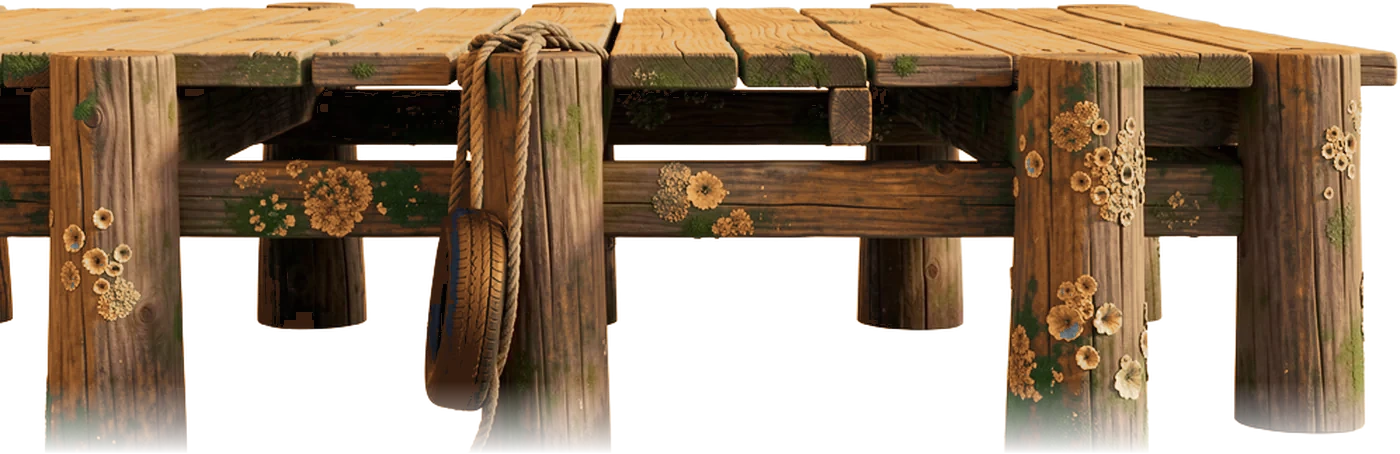
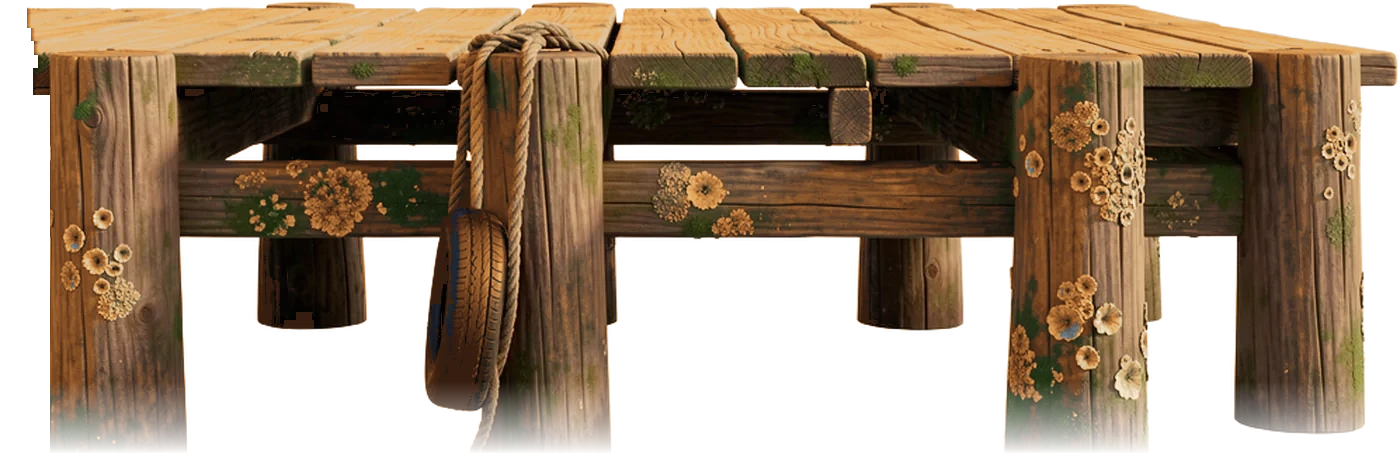
Pier without cuts: the deck ends at its first post (beams behind it, staggered plank ends), a mussel band hides each joint where a deck post goes on as a pile; null-safe creature look

Changed region(s): [[0.0, 0.0, 0.0614, 0.7093], [0.0307, 0.8634, 0.0614, 0.9868]]

diff --git a/game/level/LevelGenerator.js b/game/level/LevelGenerator.js
@@ -162,9 +162,10 @@ export const PROPS = {
     // Pier (generated art): stands at the surface, not on a floor spot (pierAt / drawPier).
     // `piles` = pile positions across the deck (under its own posts), `pileWidth` = post width (share of the deck),
     // `pileWood` = share of the pile art that is wood (band, seamless wood strip and foot are cut from one
-    // generated pile, soft-edged), `above` = share of the deck above the waterline.
+    // generated pile, soft-edged), `above` = share of the deck above the waterline, `joint` = share of the deck's
+    // height where its own posts end in the piles (a mussel band sits over each joint).
     pier: { keys: ['pier_deck', 'pier_pile_mid', 'pier_band', 'pier_foot'], width: [1300, 1600], surface: true, every: 4, chance: 0.5, max: 1,
-        piles: [0.083, 0.383, 0.769, 0.928], pileWidth: 0.1, pileWood: 0.7, above: 0.2, depth: -3, tint: 0xc4d0d4 },
+        piles: [0.083, 0.383, 0.769, 0.928], pileWidth: 0.1, pileWood: 0.7, above: 0.2, joint: 0.93, depth: -3, tint: 0xc4d0d4 },
     rowboat: { keys: ['rowboat_1'], width: SIZES.rowboat, sink: 0.3, reach: 0.2, flat: 0.35, depth: -3, back: true, max: 1, every: 2 },
     // Generated art (FLUX.2 klein, Replicate): plants between the kelp stalks.
     seagrass: { keys: ['seagrass_1'], width: [220, 340], sink: 0.12, reach: 0.2, flat: 0.6, depth: -1, max: 2, sway: 0.6 },
@@ -1395,10 +1396,11 @@ export default class LevelGenerator {
                 const c0 = Math.max(0, (m0 - y) / k), c1 = Math.min(fh, (m1 - y) / k);
                 if (c0 > 0 || c1 < fh) img.setCrop(0, c0, fw, c1 - c0);
             }
-            // Barnacle and mussel band in the tidal zone: its own height, size and side per pile.
+            // Barnacle and mussel band over the joint where the deck's own post ends and the pile goes on
+            // (user: no visible cut in the posts): its own height, size and side per pile.
             const r = Math.abs(Math.sin(q.x * 12.9898) * 43758.5453) % 1, r2 = (r * 7.31) % 1;
             const bandH = frame('pier_band').height * k * (0.75 + 0.5 * r2);
-            const by = pier.deckTop + pier.deckH * (1.05 + 0.6 * r);
+            const by = pier.deckTop + pier.deckH * (p.joint + 0.03 * (r - 0.5)) - bandH / 2;
             if (by >= oy && by < y1 && by + bandH < foot) piece('pier_band', q.x, by, bandH).setFlipX(r2 < 0.5);
         }
     }

diff --git a/game/Creature.js b/game/Creature.js
@@ -75,7 +75,7 @@ export default class Creature {
         if (!seen) return event;
         this.size += (p.size - this.size) * CREATURE.grow;
         this.rig.zoom = this.size;
-        const pl = water.player;
+        const pl = water?.player;
         this.rig.lookAt?.(pl && Math.hypot(pl.x - p.x, pl.y - p.y) < CREATURE.lookWithin ? pl : null);
         this.rig.draw({
             x: p.x, y: p.y, vx: p.vx, vy: p.vy, frames: dt > 0 ? dt * 60 : 1, effort: p.effort,

diff --git a/scripts/fx/pier_grade.py b/scripts/fx/pier_grade.py
@@ -19,8 +19,29 @@ def ramp(l):
     f = (t - i)[..., None]
     return RAMP[i] * (1 - f) + RAMP[i + 1] * f
 
+# The deck's left end was a straight cut through planks and beams (user: no straight cuts). It ends
+# at its first post instead: the beams stop behind the post, the planks and the fascia board run a
+# little past it with staggered, darkened end grain, and the stub at the picture's edge goes.
+DECK_END = {'post': 47, 'over': [8, 22], 'top': 95, 'grain': 5, 'planks': 7}     # px: the post's left edge, planks reach past it by, plank zone height, end-grain width, plank count
+
+def deck_end(a):
+    E = DECK_END
+    H = a.shape[0]
+    rng = np.random.default_rng(5)
+    over = rng.uniform(E['over'][0], E['over'][1], E['planks'])
+    for y in range(H):
+        if y < E['top']:                     # planks and fascia: staggered ends just past the post
+            k = min(E['planks'] - 1, int(y / E['top'] * E['planks']))
+            cut = int(E['post'] - over[k])
+            a[y, :max(cut, 0), 3] = 0
+            a[y, cut:cut + E['grain'], :3] *= np.linspace(0.55, 1, E['grain'])[:, None]   # end grain: darker at the cut
+        else:                                # beams end behind the post; nothing left of it
+            a[y, :E['post'] + 3, 3] = 0
+    return a
+
 def grade(name, round_across=False, gain=1.0):
     a = np.asarray(Image.open(os.path.join(SRC, name + '.webp')).convert('RGBA')).astype(np.float32) / 255
+    if name == 'pier_deck': a = deck_end(a)
     rgb = a[..., :3]
     mx, mn = rgb.max(-1), rgb.min(-1)
     sat = (mx - mn) / np.maximum(mx, 1e-4)
